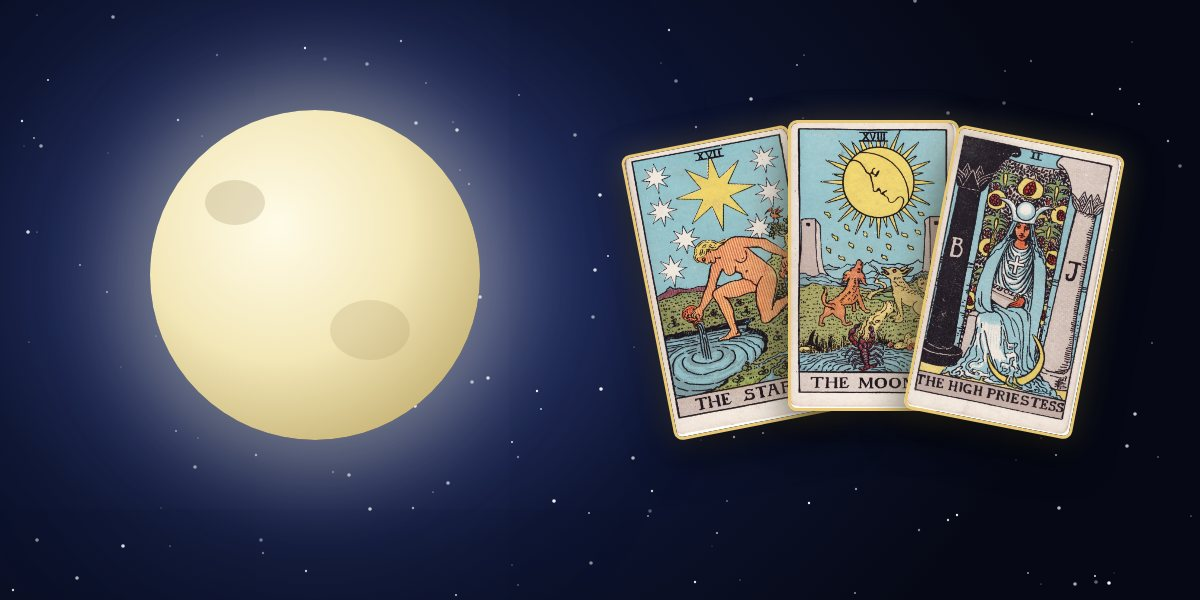
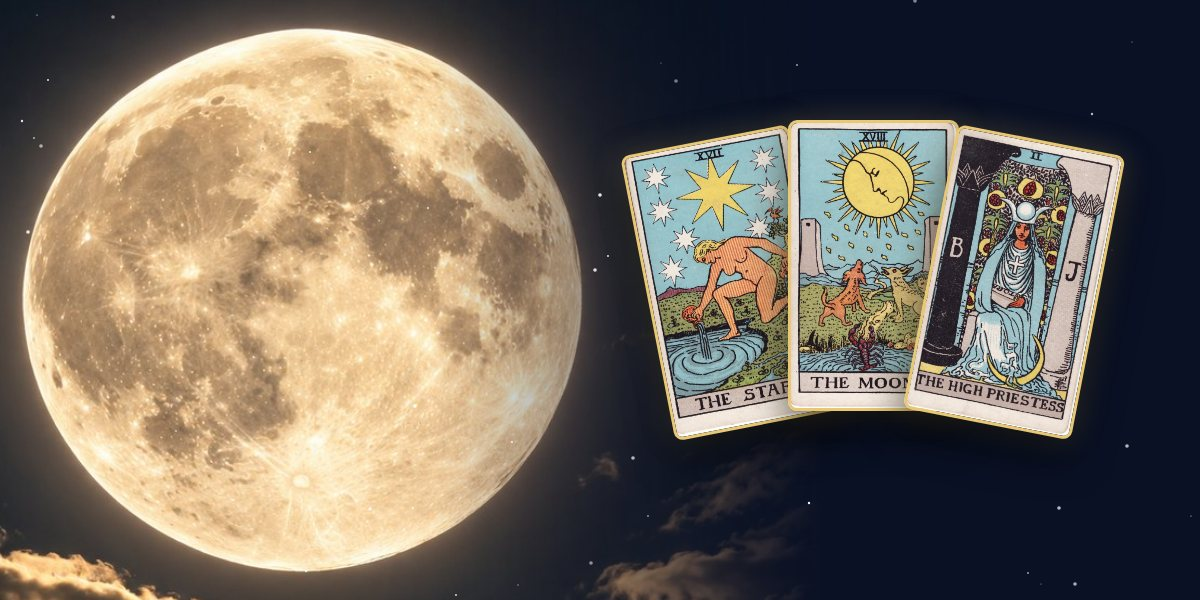
A lua cheia fotográfica dele em todo o lado: Lua do dia na app, calendário lunar, céu de hoje, fase da lua, página principal e o email Lua Cheia; app: textos novos já não ficam «undefined» por cache

diff --git a/o-teu-ceu.html b/o-teu-ceu.html
@@ -400,7 +400,7 @@ body { background: radial-gradient(120% 70% at 50% -5%, #5a2c86 0%, #2a1245 42%,
 
 <script src="ascendente-calc.js"></script>
 <script src="carta-de-tarot-textos.js"></script>
-<script src="o-teu-ceu-linguas.js"></script>
+<script src="o-teu-ceu-linguas.js?v=20261029"></script>
 <script>
 (function () {
   const $ = (id) => document.getElementById(id);
@@ -426,7 +426,7 @@ body { background: radial-gradient(120% 70% at 50% -5%, #5a2c86 0%, #2a1245 42%,
     METAS = {}; for (const k in EMOJI_META) METAS[k] = { em: EMOJI_META[k], nome: LG.metas[k][0], sub: LG.metas[k][1] };
     AFIRMA = LG.afirma; DIA_CARTA = LG.carta_dia; HUMOR_TXT = LG.humor; ARC = LG.arcanos;
     document.documentElement.lang = l;
-    document.querySelectorAll("[data-t]").forEach((el) => { el.innerHTML = T[el.dataset.t]; });
+    document.querySelectorAll("[data-t]").forEach((el) => { if (T[el.dataset.t] != null) el.innerHTML = T[el.dataset.t]; });   // sem tradução: fica o português escrito na página
     document.querySelectorAll("[data-tp]").forEach((el) => { el.placeholder = T[el.dataset.tp]; });
   }
   poeLingua(E.lingua);
@@ -553,18 +553,25 @@ body { background: radial-gradient(120% 70% at 50% -5%, #5a2c86 0%, #2a1245 42%,
   $("ok-fim").onclick = () => { E.inicio = E.inicio || hojeISO(); gravar(); mostrarApp(); };
 
   // ===== a Lua de hoje, desenhada pela fase (Lua Nova de referência: 6/1/2000 18:14 UTC; mês sinódico médio) =====
+  // 29/10/2026 (pedido dele): a Lua do dia é a FOTOGRAFIA da lua cheia que ele mandou, com a sombra da fase por cima
+  const FOTO_LUA = new Image(); FOTO_LUA.src = "/lua-cheia-240.png";
   function desenharLua() {
     const c = $("lua-hoje"), g = c.getContext("2d"), R = 56, cx = 64, cy = 64;
+    if (!FOTO_LUA.complete) { FOTO_LUA.onload = desenharLua; }
     const f = (((Date.now() - 947182440000) / 86400000 / 29.530588853) % 1 + 1) % 1;   // 0 nova · 0,5 cheia
     g.clearRect(0, 0, 128, 128);
-    g.fillStyle = "rgba(40, 20, 70, .9)"; g.beginPath(); g.arc(cx, cy, R, 0, 2 * Math.PI); g.fill();
+    g.save(); g.beginPath(); g.arc(cx, cy, R, 0, 2 * Math.PI); g.clip();
+    if (FOTO_LUA.complete && FOTO_LUA.naturalWidth) g.drawImage(FOTO_LUA, cx - R, cy - R, 2 * R, 2 * R);
+    else { g.fillStyle = "#f2d690"; g.fillRect(cx - R, cy - R, 2 * R, 2 * R); }
+    // a sombra = o disco menos a parte iluminada (par-ímpar)
     const k = Math.cos(f * 2 * Math.PI);            // 1 nova → -1 cheia
-    const grad = g.createRadialGradient(cx - 16, cy - 16, 6, cx, cy, R); grad.addColorStop(0, "#fffbe9"); grad.addColorStop(1, "#f2d690");
-    g.fillStyle = grad; g.beginPath();
     const crescente = f < 0.5;                       // a crescer: iluminada à direita (hemisfério norte)
+    g.beginPath(); g.arc(cx, cy, R + 1, 0, 2 * Math.PI);
+    g.moveTo(cx, cy - R);
     g.arc(cx, cy, R, -Math.PI / 2, Math.PI / 2, !crescente);
     g.ellipse(cx, cy, Math.abs(k) * R, R, 0, Math.PI / 2, -Math.PI / 2, (k > 0) === crescente);
-    g.fill();
+    g.fillStyle = "rgba(14, 6, 30, .86)"; g.fill("evenodd");
+    g.restore();
   }
 
   // ===== o céu estrelado, a cintilar devagar (e uma estrela cadente de vez em quando) =====

diff --git a/index.html b/index.html
@@ -1517,7 +1517,7 @@ window.addEventListener("DOMContentLoaded", function () {
     var r = 48, c = 50, rx = Math.abs(Math.cos(e * Math.PI / 180)) * r, cresce = e < 180;
     var fora = cresce ? 1 : 0, term = cresce ? (e < 90 ? 0 : 1) : (e > 270 ? 1 : 0);
     var luz = (e < 2 || e > 358) ? "" : '<path d="M' + c + ' ' + (c - r) + ' A' + r + ' ' + r + ' 0 0 ' + fora + ' ' + c + ' ' + (c + r) + ' A' + rx.toFixed(2) + ' ' + r + ' 0 0 ' + term + ' ' + c + ' ' + (c - r) + 'Z" fill="url(#fl-g)"/>';
-    document.getElementById("faixa-lua-svg").outerHTML = '<svg class="lua-svg" viewBox="0 0 100 100" aria-hidden="true"><defs><radialGradient id="fl-g" cx="40%" cy="38%" r="70%"><stop offset="0" stop-color="#fffaf0"/><stop offset=".7" stop-color="#efe3c4"/><stop offset="1" stop-color="#cbb98f"/></radialGradient></defs><circle cx="50" cy="50" r="48" fill="#2a1f3d" stroke="#b9a6d6" stroke-opacity=".4" stroke-width="1.2"/>' + luz + '</svg>';
+    document.getElementById("faixa-lua-svg").outerHTML = '<svg class="lua-svg" viewBox="0 0 100 100" aria-hidden="true"><defs><pattern id="fl-g" patternUnits="userSpaceOnUse" width="100" height="100"><image href="/lua-cheia-240.png" x="2" y="2" width="96" height="96"/></pattern></defs><circle cx="50" cy="50" r="48" fill="#2a1f3d" stroke="#b9a6d6" stroke-opacity=".4" stroke-width="1.2"/><image href="/lua-cheia-240.png" x="2" y="2" width="96" height="96" opacity=".14"/>' + luz + '</svg>';
     var ilum = Math.round((1 - Math.cos(e * Math.PI / 180)) / 2 * 100);
     var q = document.getElementById("faixa-lua-quando"), fs = document.getElementById("faixa-lua-fase"), m = document.getElementById("faixa-lua-mais");
     if (grande) {

diff --git a/o-teu-ceu-sw.js b/o-teu-ceu-sw.js
@@ -1,10 +1,10 @@
 /* O Teu Céu — o service worker (28/10/2026)
    Guarda a casca da app para abrir sem rede. O horóscopo do dia vai primeiro à rede
    e só usa a cópia guardada se não houver ligação. Subir VERSAO a cada mudança. */
-const VERSAO = "teuceu-v4";
+const VERSAO = "teuceu-v6";
 const CASCA = [
   "/o-teu-ceu", "/o-teu-ceu.webmanifest", "/o-teu-ceu-icone-192.png", "/o-teu-ceu-icone-512.png",
-  "/o-teu-ceu-icone.svg", "/ascendente-calc.js", "/carta-de-tarot-textos.js", "/o-teu-ceu-linguas.js"
+  "/o-teu-ceu-icone.svg", "/lua-cheia-240.png", "/ascendente-calc.js", "/carta-de-tarot-textos.js", "/o-teu-ceu-linguas.js"
 ];
 self.addEventListener("install", (e) => {
   e.waitUntil(caches.open(VERSAO).then((c) => c.addAll(CASCA)).then(() => self.skipWaiting()));
@@ -17,7 +17,8 @@ self.addEventListener("fetch", (e) => {
   const r = e.request;
   if (r.method !== "GET") return;
   const u = new URL(r.url);
-  const daRede = u.origin === location.origin && (u.pathname === "/o-teu-ceu" || u.pathname.startsWith("/horoscopo-dia/"));
+  // 29/10/2026: também os .js da app vêm da rede primeiro (página nova + textos velhos em cache = botões «undefined»)
+  const daRede = u.origin === location.origin && (u.pathname === "/o-teu-ceu" || u.pathname.startsWith("/horoscopo-dia/") || u.pathname.endsWith(".js"));
   if (daRede) {
     // rede primeiro: a página e o céu do dia têm de estar frescos
     e.respondWith(fetch(r).then((res) => { const c = res.clone(); caches.open(VERSAO).then((k) => k.put(r, c)); return res; })

diff --git a/ceu-de-hoje.html b/ceu-de-hoje.html
@@ -219,8 +219,8 @@ window.GT = (function () {
     const r = 48, c = 50, rx = Math.abs(Math.cos(e * Math.PI / 180)) * r, cresc = e < 180, fora = cresc ? 1 : 0, term = cresc ? (e < 90 ? 0 : 1) : (e > 270 ? 1 : 0);
     const lit = (e < 2 || e > 358) ? "" : (Math.abs(e - 180) < 2) ? `<circle cx="${c}" cy="${c}" r="${r}" fill="url(#gl)"/>`
       : `<path d="M${c} ${c - r} A${r} ${r} 0 0 ${fora} ${c} ${c + r} A${rx.toFixed(2)} ${r} 0 0 ${term} ${c} ${c - r}Z" fill="url(#gl)"/>`;
-    return `<svg viewBox="0 0 100 100" aria-hidden="true"><defs><radialGradient id="gl" cx="40%" cy="38%" r="70%"><stop offset="0" stop-color="#fffaf0"/><stop offset=".7" stop-color="#efe3c4"/><stop offset="1" stop-color="#cbb98f"/></radialGradient></defs>`
-      + `<circle cx="${c}" cy="${c}" r="${r}" fill="#2a1f3d" stroke="#b9a6d6" stroke-opacity=".35" stroke-width="1.2"/>${lit}</svg>`;
+    return `<svg viewBox="0 0 100 100" aria-hidden="true"><defs><pattern id="gl" patternUnits="userSpaceOnUse" width="100" height="100"><image href="/lua-cheia-240.png" x="2" y="2" width="96" height="96"/></pattern></defs>`
+      + `<circle cx="${c}" cy="${c}" r="${r}" fill="#2a1f3d" stroke="#b9a6d6" stroke-opacity=".35" stroke-width="1.2"/><image href="/lua-cheia-240.png" x="2" y="2" width="96" height="96" opacity=".14"/>${lit}</svg>`;
   }
   function desenhar() {
     const agora = Date.now(), p = G.partes(agora), N = G.nomes();

diff --git a/fase-lua-nascimento.html b/fase-lua-nascimento.html
@@ -292,8 +292,8 @@ body { background: radial-gradient(ellipse at top, oklch(0.38 0.14 275) 0%, oklc
     const lit = (e < 2 || e > 358) ? "" :
       (Math.abs(e - 180) < 2) ? `<circle cx="${c}" cy="${c}" r="${r}" fill="url(#${id})"/>` :
       `<path d="M${c} ${c - r} A${r} ${r} 0 0 ${fora} ${c} ${c + r} A${rx.toFixed(2)} ${r} 0 0 ${term} ${c} ${c - r}Z" fill="url(#${id})"/>`;
-    return `<svg viewBox="0 0 100 100" aria-hidden="true"><defs><radialGradient id="${id}" cx="40%" cy="38%" r="70%"><stop offset="0" stop-color="#fffaf0"/><stop offset=".7" stop-color="#efe3c4"/><stop offset="1" stop-color="#cbb98f"/></radialGradient></defs>`
-      + `<circle cx="${c}" cy="${c}" r="${r}" fill="#2a1f3d" stroke="#b9a6d6" stroke-opacity=".35" stroke-width="1.2"/>${lit}</svg>`;
+    return `<svg viewBox="0 0 100 100" aria-hidden="true"><defs><pattern id="${id}" patternUnits="userSpaceOnUse" width="100" height="100"><image href="/lua-cheia-240.png" x="2" y="2" width="96" height="96"/></pattern></defs>`
+      + `<circle cx="${c}" cy="${c}" r="${r}" fill="#2a1f3d" stroke="#b9a6d6" stroke-opacity=".35" stroke-width="1.2"/><image href="/lua-cheia-240.png" x="2" y="2" width="96" height="96" opacity=".14"/>${lit}</svg>`;
   }
   // a Lua do herói é a de agora
   const agora = Date.now(), luaHoje = AstroNasc.fase(agora);

diff --git a/lua.html b/lua.html
@@ -349,8 +349,8 @@ footer a { color: inherit; }
     const lit = (e < 2 || e > 358) ? "" :
       (Math.abs(e - 180) < 2) ? `<circle cx="${c}" cy="${c}" r="${r}" fill="url(#${id})"/>` :
       `<path d="M${c} ${c - r} A${r} ${r} 0 0 ${fora} ${c} ${c + r} A${rx.toFixed(2)} ${r} 0 0 ${term} ${c} ${c - r}Z" fill="url(#${id})"/>`;
-    return `<svg class="${cls || ""}" viewBox="0 0 100 100" aria-hidden="true"><defs><radialGradient id="${id}" cx="40%" cy="38%" r="70%"><stop offset="0" stop-color="#fffaf0"/><stop offset=".7" stop-color="#efe3c4"/><stop offset="1" stop-color="#cbb98f"/></radialGradient></defs>`
-      + `<circle cx="${c}" cy="${c}" r="${r}" fill="#2a1f3d" stroke="#b9a6d6" stroke-opacity=".35" stroke-width="1.2"/>${lit}</svg>`;
+    return `<svg class="${cls || ""}" viewBox="0 0 100 100" aria-hidden="true"><defs><pattern id="${id}" patternUnits="userSpaceOnUse" width="100" height="100"><image href="/lua-cheia-240.png" x="2" y="2" width="96" height="96"/></pattern></defs>`
+      + `<circle cx="${c}" cy="${c}" r="${r}" fill="#2a1f3d" stroke="#b9a6d6" stroke-opacity=".35" stroke-width="1.2"/><image href="/lua-cheia-240.png" x="2" y="2" width="96" height="96" opacity=".14"/>${lit}</svg>`;
   }
 
   const agora = Date.now();
